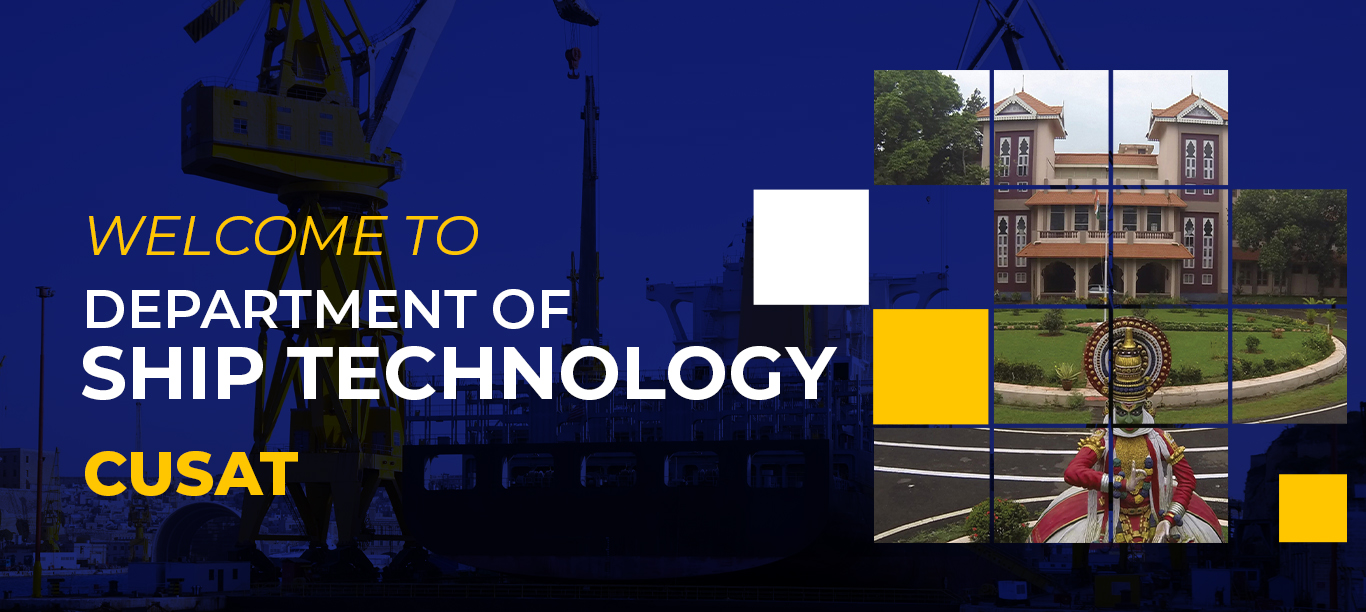
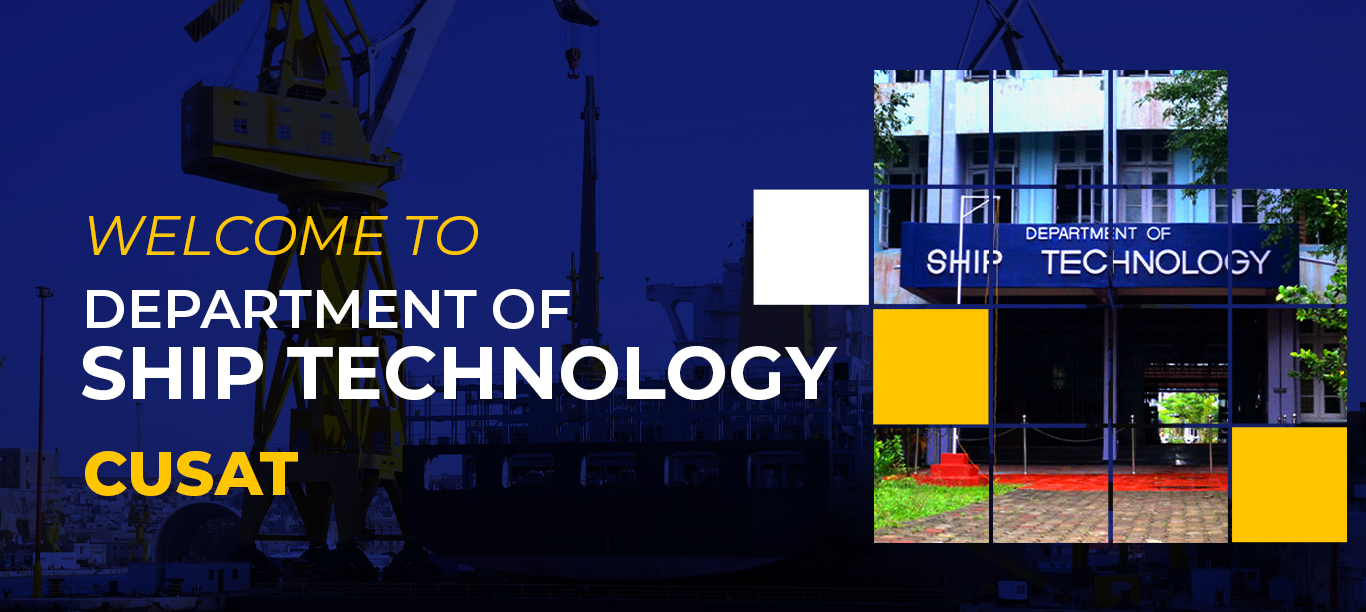
phone number changerd and bannere image changed

Changed region(s): [[0.6149, 0.0931, 1.0, 0.9003]]

diff --git a/partials/header.php b/partials/header.php
@@ -8,17 +8,15 @@
                     <a class="text-white" href="mailto:ship@cusat.ac.in">ship@cusat.ac.in</a>
                 </p>
                 <p class="mb-0 text-white"><span class="fa fa-phone-alt"></span>
-                    <a class="text-white" href=" tel:+914842576253">0484 - 2577602</a>
+                    <a class="text-white" href=" tel:+914842575714">0484-2575714</a>
                 </p>
                 </p>
             </div>
             <div class="col d-flex justify-content-end">
                 <div class="social-media">
                     <p class="mb-0 d-flex">
-                        <a class="text-white d-flex align-items-center justify-content-center border-separator me-4"
-                            href="https://www.cusat.ac.in/" target="_blank">CUSAT Website</a>
-                        <a class="text-white d-flex align-items-center justify-content-center "
-                            href="https://admissions.cusat.ac.in/" target="_blank">Admissions</a>
+                        <a class="text-white d-flex align-items-center justify-content-center border-separator me-4" href="https://www.cusat.ac.in/" target="_blank">CUSAT Website</a>
+                        <a class="text-white d-flex align-items-center justify-content-center " href="https://admissions.cusat.ac.in/" target="_blank">Admissions</a>
                     </p>
                 </div>
             </div>
